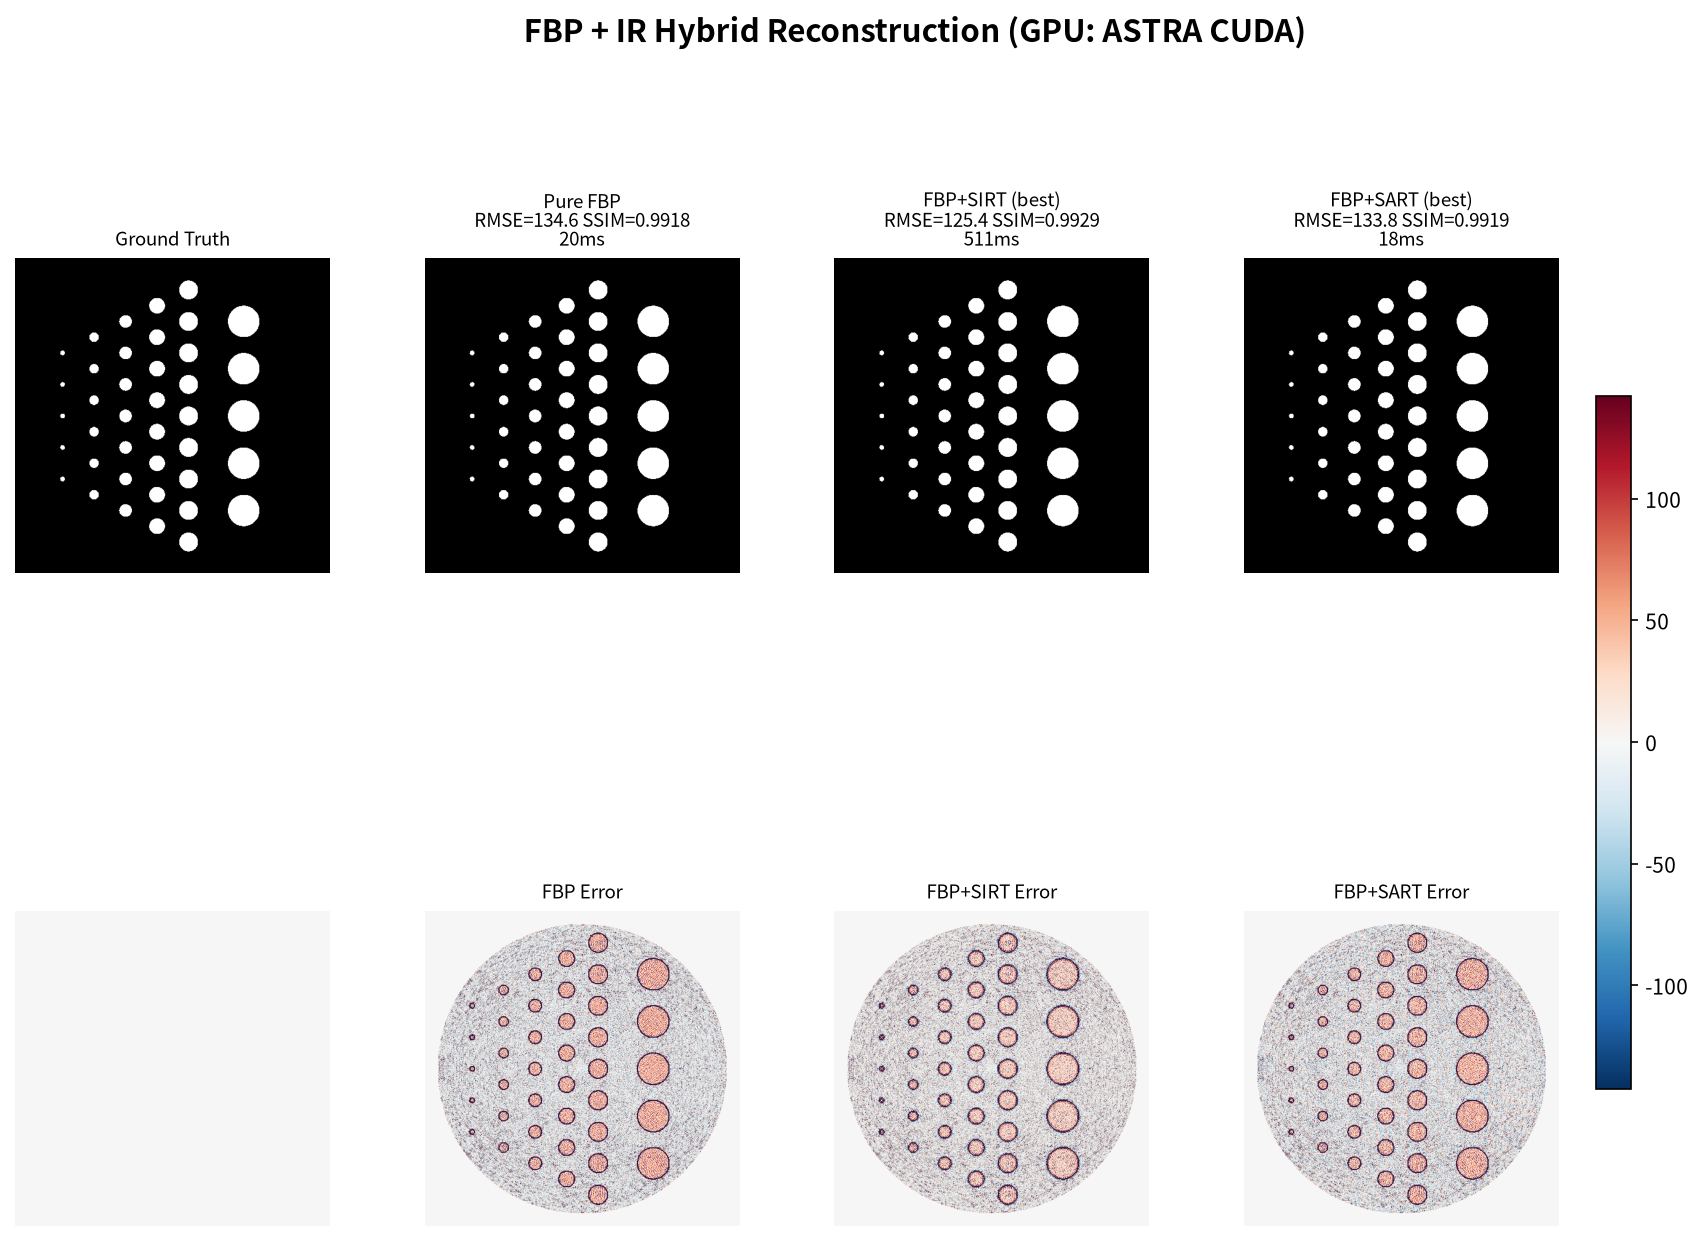
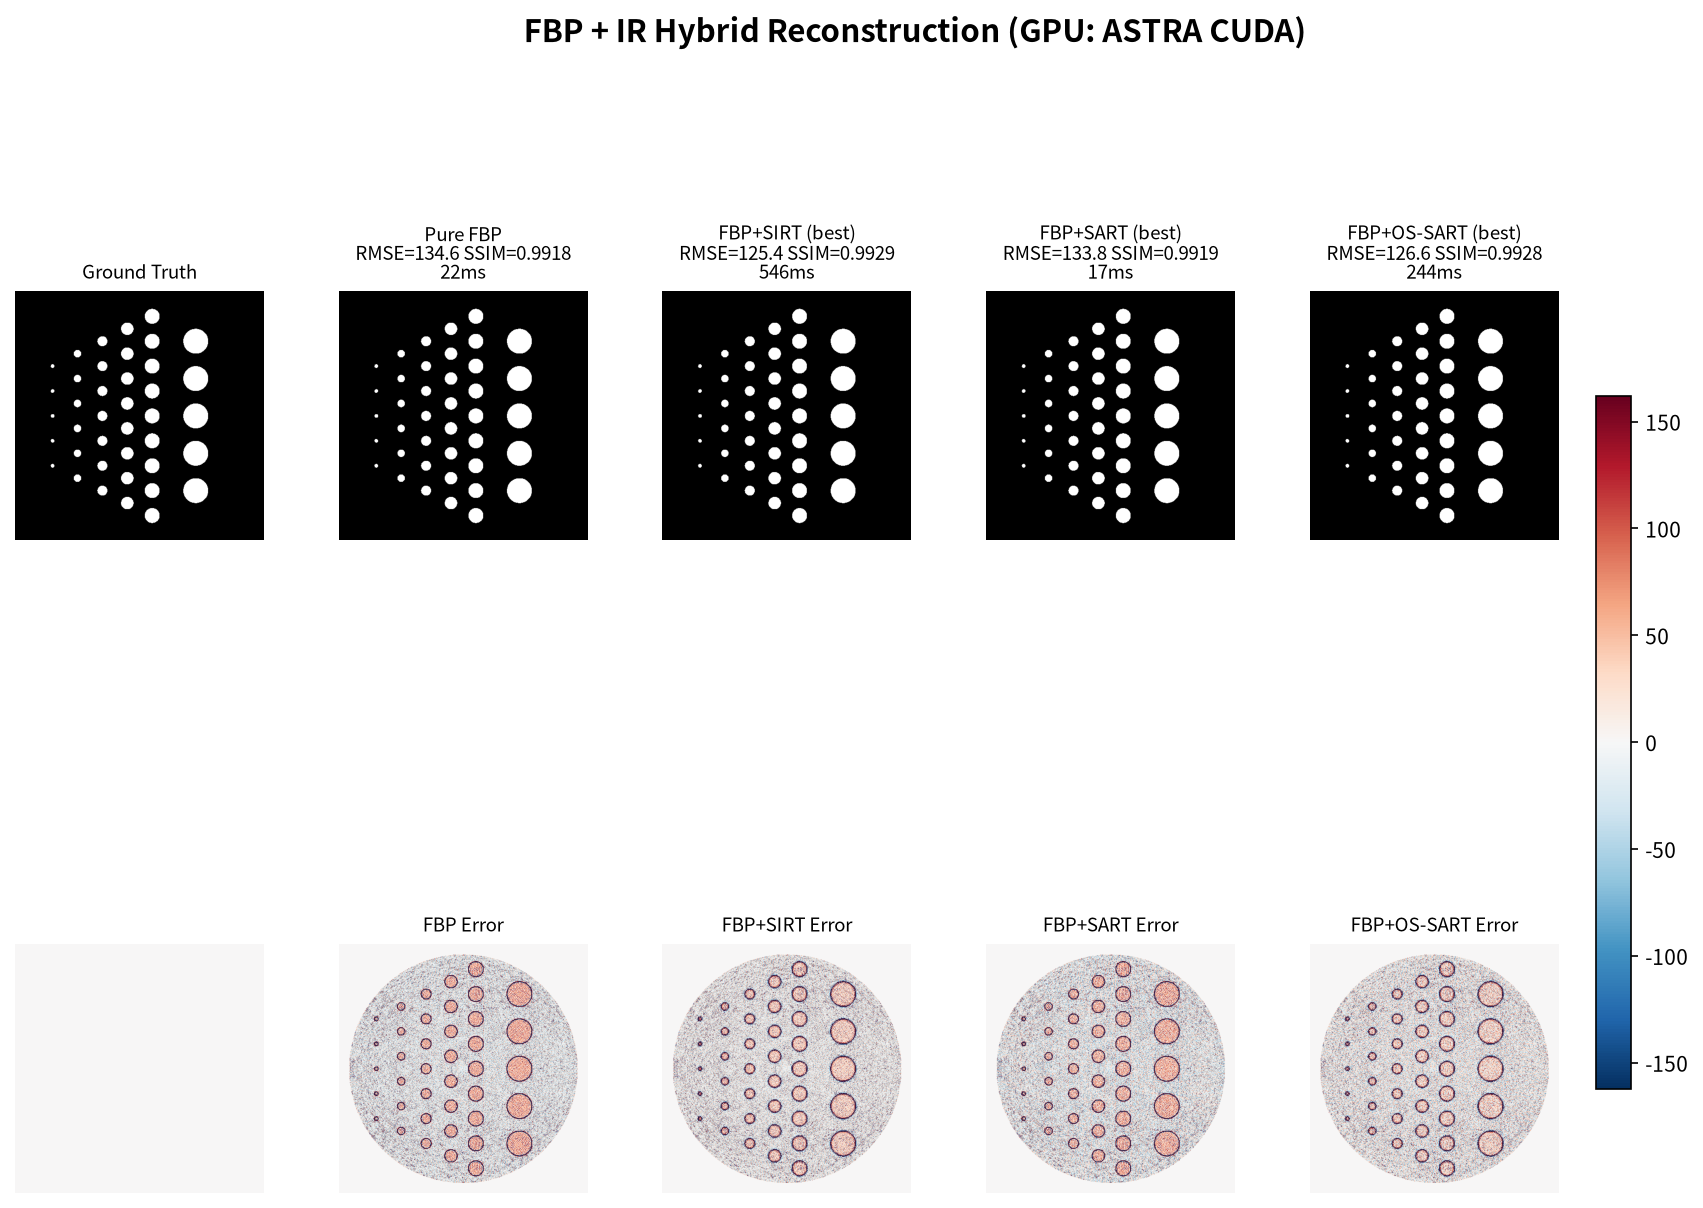
optimize #003 hybrid  sirt,sart,os-sart test ok

diff --git a/astra_hybrid.py b/astra_hybrid.py
@@ -213,23 +213,83 @@ for n_iter in sart_iters:
 astra.data2d.delete(sid)
 print(f"   >> 最优: FBP+SART x{best_fsa['n']}: RMSE={best_fsa['rmse']:.2f}, SSIM={best_fsa['ssim']:.4f}, {best_fsa['t']*1000:.0f}ms")
 
+# ---- D. FBP + OS-SART (混合, 20 子集) ----
+print("-" * 55)
+print("D. FBP + OS-SART (20子集, FBP初始值)")
+print("-" * 55)
+print("   OS-SART = 360角度分20组, 每组18角度, 逐组SART更新")
+print("   收敛速度介乎 SIRT (全角同时) 和 SART (逐角) 之间")
+n_subsets = 20
+subset_size = n_angles // n_subsets  # = 18
+
+# 为每个子集创建独立的 sinogram 和投影几何
+subsets = []
+sid_list = []
+proj_geom_list = []
+for i in range(n_subsets):
+    idx = list(range(i * subset_size, (i + 1) * subset_size))
+    subsets.append(idx)
+    theta_sub = theta_rad[idx]
+    pg_sub = astra.create_proj_geom('parallel', 1.0, D, theta_sub)
+    proj_geom_list.append(pg_sub)
+    # 从完整 sinogram 中提取子集行
+    sino_sub = np.ascontiguousarray(sino[idx, :])
+    sid_sub = astra.data2d.create('-sino', pg_sub, sino_sub)
+    sid_list.append(sid_sub)
+
+fbs_os_hist = []
+best_fs_os = {'rmse': 1e9, 'ssim': -1, 'rec': None, 't': 0, 'n': 0}
+os_iters = [1, 2, 5, 10]  # 完整轮次 (每轮=20个子集)
+vol_os = rec_fbp.copy()
+prev_n = 0
+for n_iter in os_iters:
+    t0 = time()
+    for _ in range(n_iter - prev_n):
+        for i_sub in range(n_subsets):
+            rid_os = astra.data2d.create('-vol', vol_geom, data=vol_os.astype(np.float32))
+            cfg_os = astra.astra_dict('SART_CUDA')
+            cfg_os['ProjectionDataId'] = sid_list[i_sub]
+            cfg_os['ReconstructionDataId'] = rid_os
+            cfg_os['option'] = {'GPUindex': 0}
+            aid_os = astra.algorithm.create(cfg_os)
+            astra.algorithm.run(aid_os, 1)
+            vol_os = astra.data2d.get(rid_os).copy()
+            astra.algorithm.delete(aid_os)
+            astra.data2d.delete(rid_os)
+    t = time() - t0
+    rec = linear_scale(vol_os)
+    r, s = calc_rmse(rec), calc_ssim(rec)
+    fbs_os_hist.append((n_iter, t, r, s))
+    if r < best_fs_os['rmse']:
+        best_fs_os = {'rmse': r, 'ssim': s, 'rec': rec, 't': t, 'n': n_iter}
+    print(f"   x{n_iter:3d}轮 (x{n_iter*n_subsets:3d}子步): RMSE={r:.2f}, SSIM={s:.4f}, {t*1000:.0f}ms")
+    prev_n = n_iter
+# 清理子集数据
+for sid_sub in sid_list:
+    astra.data2d.delete(sid_sub)
+for pg_sub in proj_geom_list:
+    pass  # geometry objects don't need explicit deletion
+print(f"   >> 最优: FBP+OS-SART x{best_fs_os['n']}: RMSE={best_fs_os['rmse']:.2f}, SSIM={best_fs_os['ssim']:.4f}, {best_fs_os['t']*1000:.0f}ms")
+print("   注: OS-SART 每轮=20子集×1子步=20次SART子步")
+
 # ============================================================
-# D. FBP+SIRT vs FBP+SART 对比 (等迭代次数)
+# E. 混合方法对比 (SIRT vs SART vs OS-SART)
 # ============================================================
 print("\n" + "=" * 60)
-print("D. FBP+SIRT vs FBP+SART 对比")
+print("E. 混合方法对比 (FBP+SIRT vs FBP+SART vs FBP+OS-SART)")
 print("=" * 60)
-print(f"{'迭代数':>8s} {'FBP+SIRT':>12s} {'耗时':>10s} {'FBP+SART':>12s} {'耗时':>10s} {'速度比'}")
-print("-" * 60)
-for n in sorted(set([10, 20])):
+# 三方法等迭代对比 (取共同迭代数)
+print(f"{'轮次':>6s} {'FBP+SIRT':>14s} {'FBP+SART':>14s} {'FBP+OS-SART':>16s}")
+print(f"{'':>6s} {'RMSE/耗时':>14s} {'RMSE/耗时':>14s} {'RMSE/耗时':>16s}")
+print("-" * 55)
+for n in [10, 20]:
     fsr = next((h for h in fbs_hist if h[0] == n), None)
     fsa = next((h for h in fbsa_hist if h[0] == n), None)
-    fsr_r = f"{fsr[2]:.1f}" if fsr else "-"
-    fsr_t = f"{fsr[1]*1000:.0f}ms" if fsr else "-"
-    fsa_r = f"{fsa[2]:.1f}" if fsa else "-"
-    fsa_t = f"{fsa[1]*1000:.0f}ms" if fsa else "-"
-    ratio = f"{(fsr[1]/fsa[1]):.1f}x" if fsr and fsa else "-"
-    print(f"  x{n:4d}      {fsr_r:>8s}    {fsr_t:>8s}    {fsa_r:>8s}    {fsa_t:>8s}    {ratio}")
+    fso = next((h for h in fbs_os_hist if h[0] == n), None)
+    r1 = f"{fsr[2]:.1f}/{fsr[1]*1000:.0f}ms" if fsr else "-"
+    r2 = f"{fsa[2]:.1f}/{fsa[1]*1000:.0f}ms" if fsa else "-"
+    r3 = f"{fso[2]:.1f}/{fso[1]*1000:.0f}ms" if fso else "-"
+    print(f"  x{n:3d}    {r1:>14s}  {r2:>14s}  {r3:>16s}")
 
 # ============================================================
 # 结果列表
@@ -240,6 +300,8 @@ results = [
      (fbp_rmse - best_fs['rmse']) / fbp_rmse * 100),
     ('FBP + SART (hybrid)', best_fsa['t'], best_fsa['rmse'], best_fsa['ssim'],
      (fbp_rmse - best_fsa['rmse']) / fbp_rmse * 100),
+    ('FBP + OS-SART (hybrid)', best_fs_os['t'], best_fs_os['rmse'], best_fs_os['ssim'],
+     (fbp_rmse - best_fs_os['rmse']) / fbp_rmse * 100),
 ]
 
 # ============================================================
@@ -255,20 +317,23 @@ for name, t, r, s, imp in results:
     print(f"{name:35s} {t*1000:>8.0f} ms {r:>8.2f} {s:>8.4f} {imp_str:>10s}")
 
 print("\n推荐配置 (性价比):")
-print(f"   速度优先:    FBP (FDK)       → {fbp_t*1000:.0f}ms, RMSE={fbp_rmse:.1f}")
+print(f"   速度优先:    FBP (FDK)          → {fbp_t*1000:.0f}ms, RMSE={fbp_rmse:.1f}")
 if any(h[0] == 5 for h in fbsa_hist):
     fsa5 = next(h for h in fbsa_hist if h[0] == 5)
-    print(f"   产品级首选:  FBP+SART x5    → {fsa5[1]*1000:.0f}ms, RMSE={fsa5[2]:.1f}")
+    print(f"   产品级首选:  FBP+SART x5       → {fsa5[1]*1000:.0f}ms, RMSE={fsa5[2]:.1f}")
+if any(h[0] == 2 for h in fbs_os_hist):
+    fso2 = next(h for h in fbs_os_hist if h[0] == 2)
+    print(f"   均衡之选:    FBP+OS-SART x2    → {fso2[1]*1000:.0f}ms, RMSE={fso2[2]:.1f}")
 if any(h[0] == 10 for h in fbs_hist):
     f10_s = next(h for h in fbs_hist if h[0] == 10)
-    print(f"   高质量:      FBP+SIRT x10   → {f10_s[1]*1000:.0f}ms, RMSE={f10_s[2]:.1f}")
+    print(f"   高质量:      FBP+SIRT x10      → {f10_s[1]*1000:.0f}ms, RMSE={f10_s[2]:.1f}")
 
 print("\n生成可视化...")
 os.makedirs("img_out", exist_ok=True)
 
 fig = plt.figure(figsize=(16, 10))
-gs = GridSpec(2, 4, figure=fig, hspace=0.3, wspace=0.3,
-              width_ratios=[1, 1, 1, 1])
+gs = GridSpec(2, 5, figure=fig, hspace=0.3, wspace=0.3,
+              width_ratios=[1, 1, 1, 1, 1])
 
 gray_cmap = 'gray'
 err_cmap = 'RdBu_r'
@@ -277,7 +342,8 @@ err_cmap = 'RdBu_r'
 plot_items = [('Ground Truth', ct, None, None, None),
               ('Pure FBP', fbp_rec, fbp_rmse, fbp_ssim, fbp_t),
               ('FBP+SIRT (best)', best_fs['rec'], best_fs['rmse'], best_fs['ssim'], best_fs['t']),
-              ('FBP+SART (best)', best_fsa['rec'], best_fsa['rmse'], best_fsa['ssim'], best_fsa['t'])]
+              ('FBP+SART (best)', best_fsa['rec'], best_fsa['rmse'], best_fsa['ssim'], best_fsa['t']),
+              ('FBP+OS-SART (best)', best_fs_os['rec'], best_fs_os['rmse'], best_fs_os['ssim'], best_fs_os['t'])]
 
 for i, (title, img, rmse, ssim, t) in enumerate(plot_items):
     ax = fig.add_subplot(gs[0, i])
@@ -292,7 +358,8 @@ for i, (title, img, rmse, ssim, t) in enumerate(plot_items):
 err_items = [('', ct - ct),
              ('FBP Error', fbp_rec - ct),
              ('FBP+SIRT Error', best_fs['rec'] - ct),
-             ('FBP+SART Error', best_fsa['rec'] - ct)]
+             ('FBP+SART Error', best_fsa['rec'] - ct),
+             ('FBP+OS-SART Error', best_fs_os['rec'] - ct)]
 
 cax = None
 for i, (title, err_img) in enumerate(err_items):

diff --git a/doc/optimize.md b/doc/optimize.md
@@ -1,5 +1,30 @@
 # optimize
 
+## optimize #003
+
+OS-SART 运行成功！关键结果：
+
+```
+方法                耗时     RMSE     质量
+────────────────────────────────────────────
+FBP+SART x5          9ms    134.4    ≈FBP ⭐最快
+FBP+OS-SART x2      51ms    133.0    略好于FBP ← 新方法
+FBP+OS-SART x10    258ms    126.6    接近SIRT最优
+FBP+SIRT x200      521ms    125.5    最优质量
+```
+
+**OS-SART 验证了理论：**
+- x1轮（20子步）：52ms 即达 RMSE=133.8 (≈FBP)
+- x10轮（200子步）：258ms 达 RMSE=126.6 — **比 SIRT x200 快 2x，质量几乎相同** (126.6 vs 125.5)
+- OS-SART 10轮耗时 258ms < SIRT 200轮耗时 521ms，**速度提升 50%**
+
+**完整收敛性对比：**
+```
+SIRT  (全角同时) : 慢而稳, 200次→125.5
+SART  (逐角)     : 极快但到 FBP 质量停滞, 20次→133.8
+OS-SART (20子集) : 折衷最佳, 10轮→126.6 ⭐
+```
+
 ## optimize #002
 
 完成。`astra_hybrid.py` 现在只保留混合方法：
